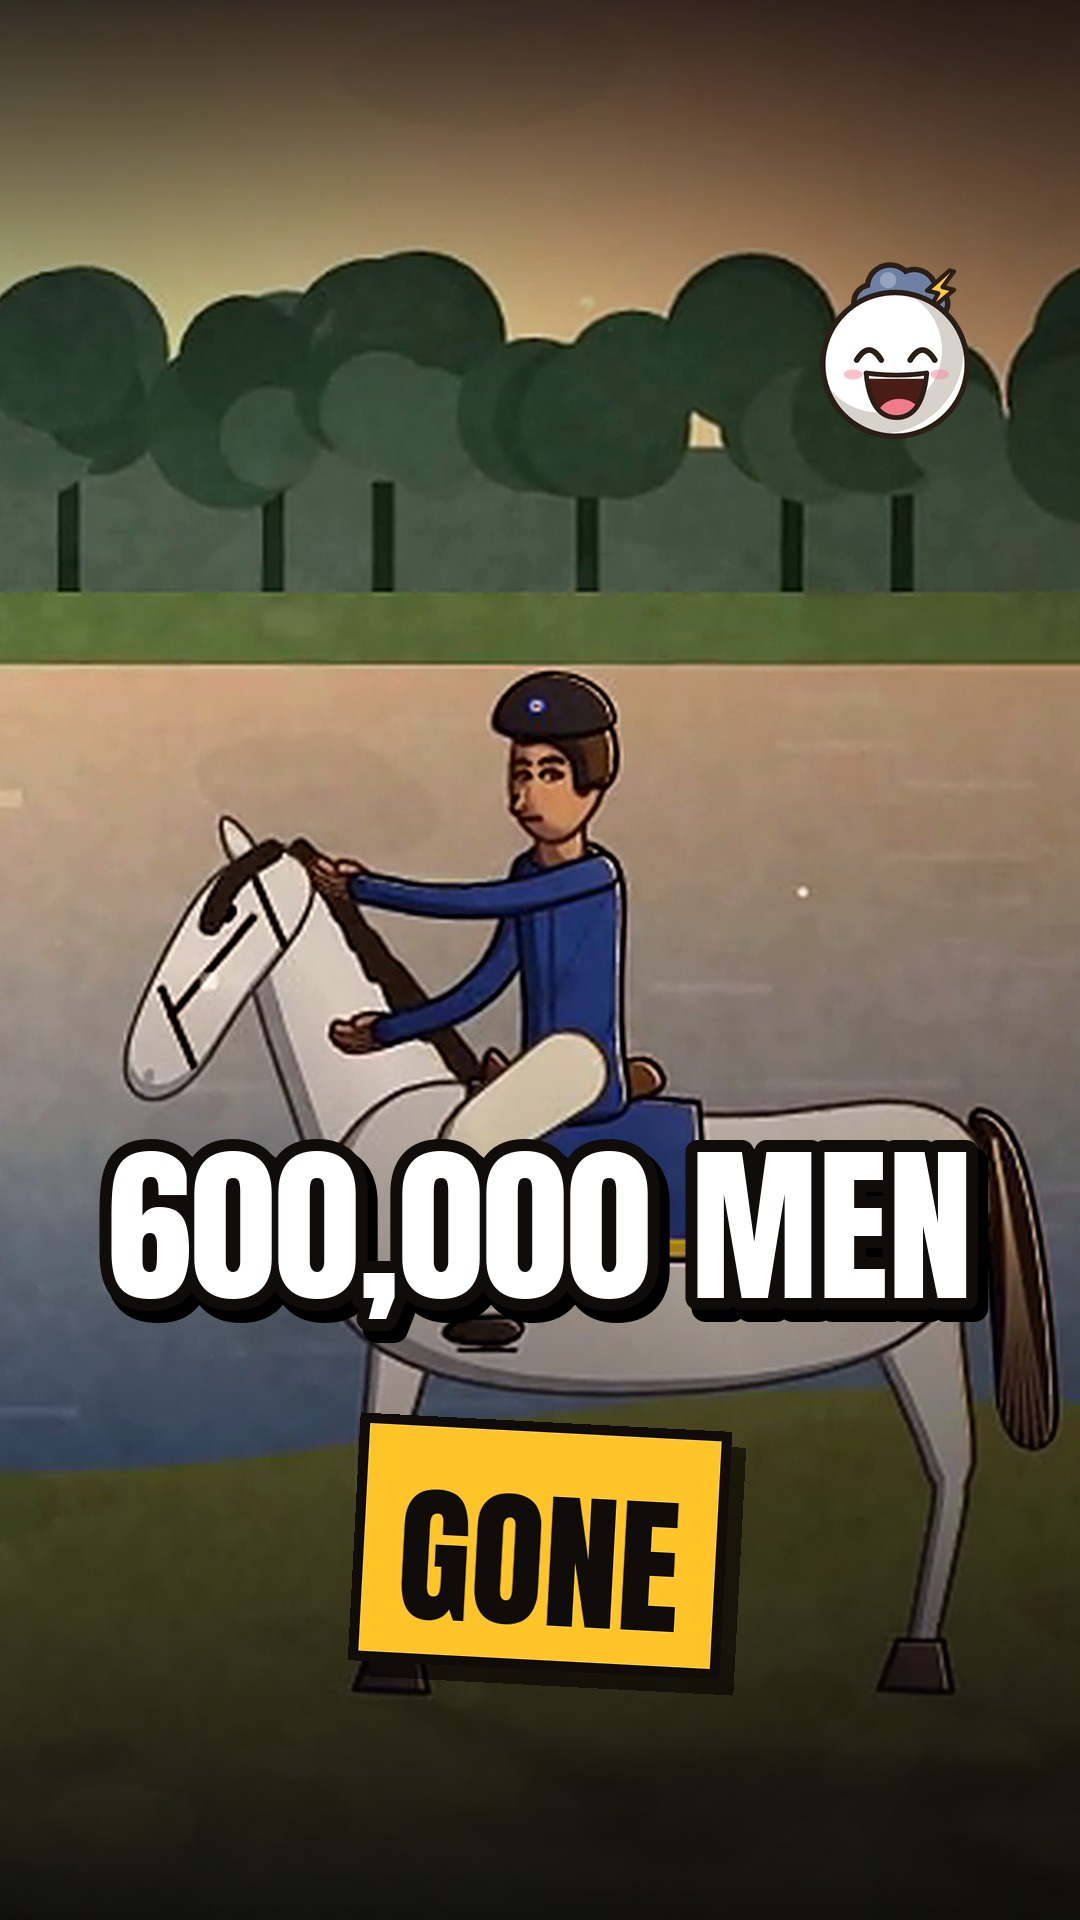
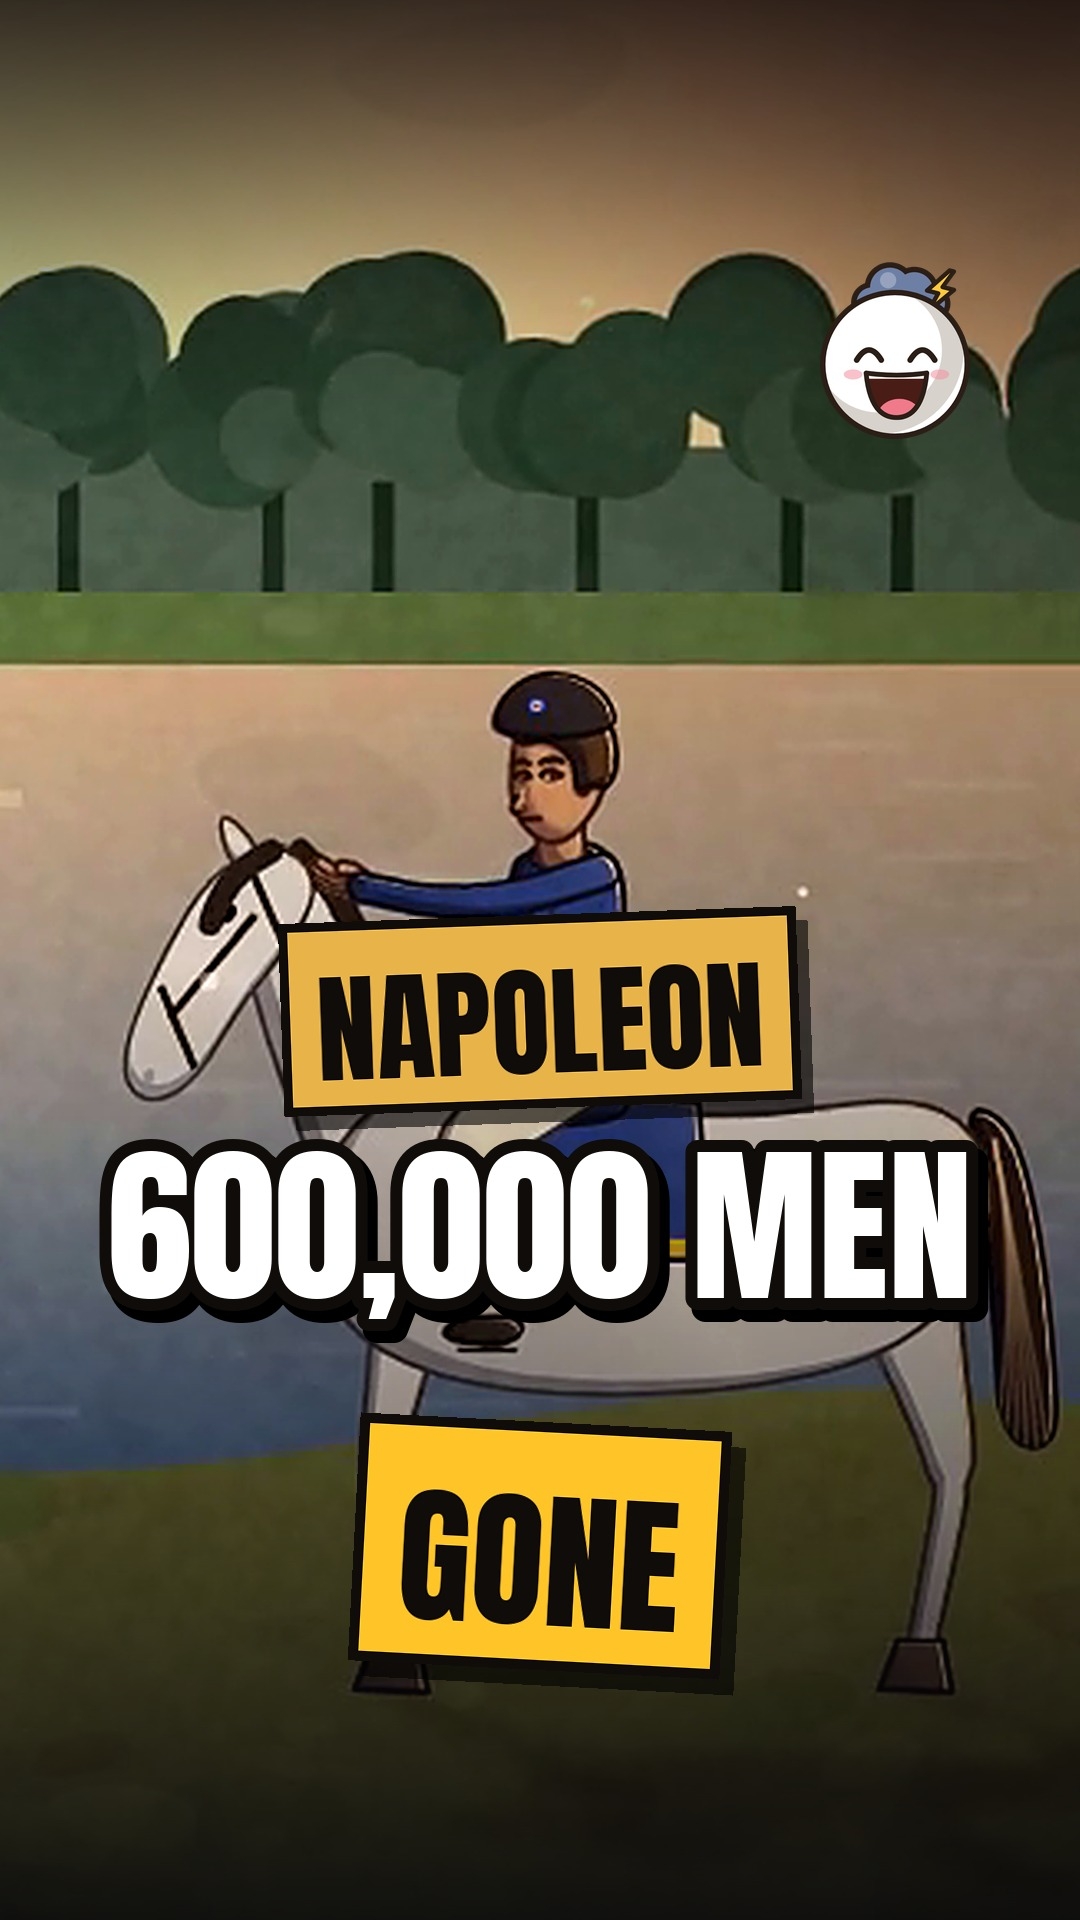
Napoleon reel covers: add gold NAPOLEON name tag
Claude-Session: https://claude.ai/code/session_01CFreaMXN5yY6aUWS8Pi2qi

Changed region(s): [[0.2444, 0.4688, 0.7639, 0.5938]]

diff --git a/2d-dynamic/shared/reels/thumb_dd.py b/2d-dynamic/shared/reels/thumb_dd.py
@@ -2,7 +2,7 @@
 """In-house vertical reel covers (1080x1920) for the 2D dynamic line.
 usage: python3 shared/reels/thumb_dd.py VIDEO_DIR [ID ...]
 Reads VIDEO/reels/reels.json. Per reel: thumb [line1, line2] (line 2 goes on the accent slab),
-optional tt (seconds into the reel clip, default middle of shot s0), thx (crop centre x in 1920 px, default 960), tz (zoom, default 1)."""
+optional name (gold name tag above the headline), tt (seconds into the reel clip, default middle of shot s0), thx (crop centre x in 1920 px, default 960), tz (zoom, default 1)."""
 import json, os, sys, subprocess
 from PIL import Image, ImageDraw, ImageFont, ImageEnhance, ImageFilter
 V = sys.argv[1].rstrip('/'); IDS = set(map(int, sys.argv[2:]))
@@ -40,6 +40,13 @@ for R in json.load(open(f'{V}/reels/reels.json')):
     f1 = fit(d, l1, 940, 170); f2 = fit(d, l2, 860, 150)
     h1 = f1.getbbox(l1)[3]; h2 = f2.getbbox(l2)[3]
     y = 1660 - (h1 + 40 + h2 + 70)
+    if R.get('name'):  # optional name tag slab above the headline (gold, like the long thumbnail)
+        nm = R['name']; fn = fit(d, nm, 760, 120); hn = fn.getbbox(nm)[3]; ng = (232, 180, 74)
+        tag = Image.new('RGBA', (int(d.textlength(nm, font=fn) + 70), hn + 50), ng + (255,)); td = ImageDraw.Draw(tag)
+        td.rectangle([0, 0, tag.width - 1, tag.height - 1], outline=(15, 12, 10), width=9); td.text((35, 16), nm, font=fn, fill=(15, 12, 10))
+        tag = tag.rotate(2, expand=True, resample=Image.BICUBIC); y -= tag.height + 34
+        tsh = Image.new('RGBA', tag.size, (0, 0, 0, 0)); tsh.paste((0, 0, 0, 150), (0, 0) + tag.size, tag)
+        px = (W - tag.width) // 2; im.paste(tsh, (px + 12, y + 14), tsh); im.paste(tag, (px, y), tag); y += tag.height + 34
     d.text((W // 2 + 8, y + 10), l1, font=f1, fill=(0, 0, 0), anchor='mt', stroke_width=14, stroke_fill=(0, 0, 0))
     d.text((W // 2, y), l1, font=f1, fill=(255, 255, 255), anchor='mt', stroke_width=12, stroke_fill=(15, 12, 10)); y += h1 + 40
     tw = d.textlength(l2, font=f2); slab = Image.new('RGBA', (int(tw + 90), h2 + 70), acc + (255,)); sd = ImageDraw.Draw(slab)
